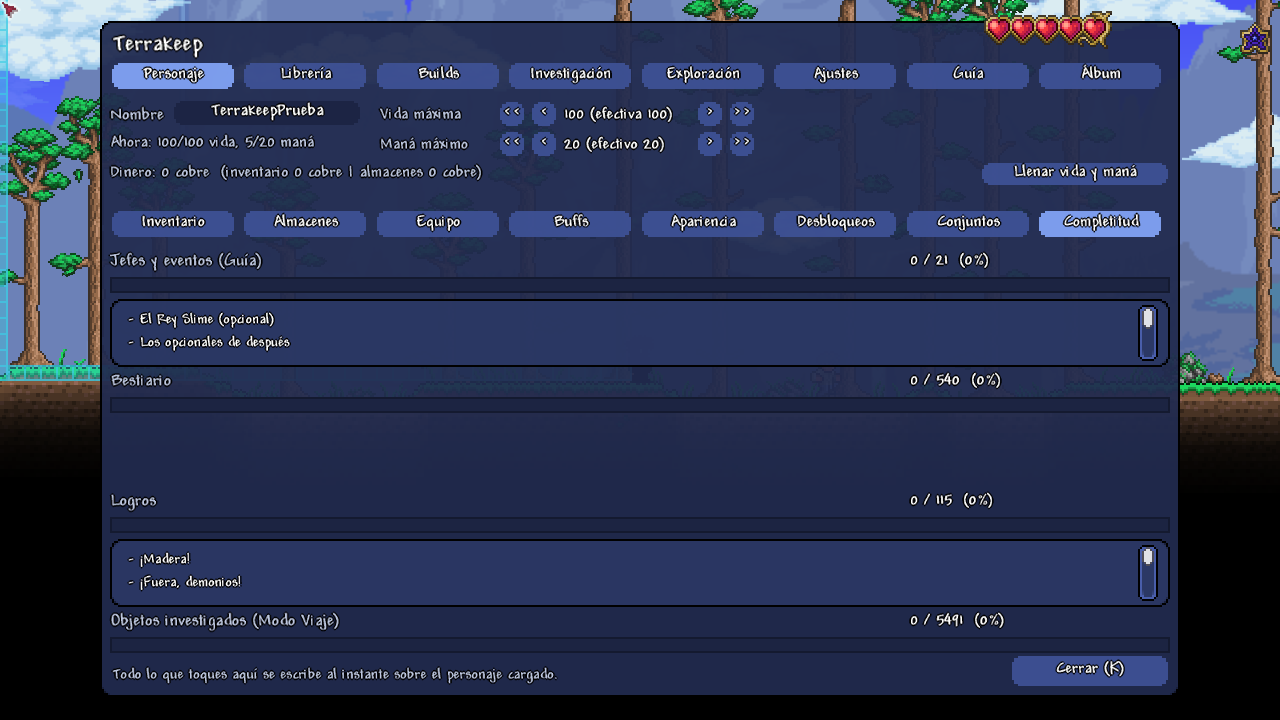
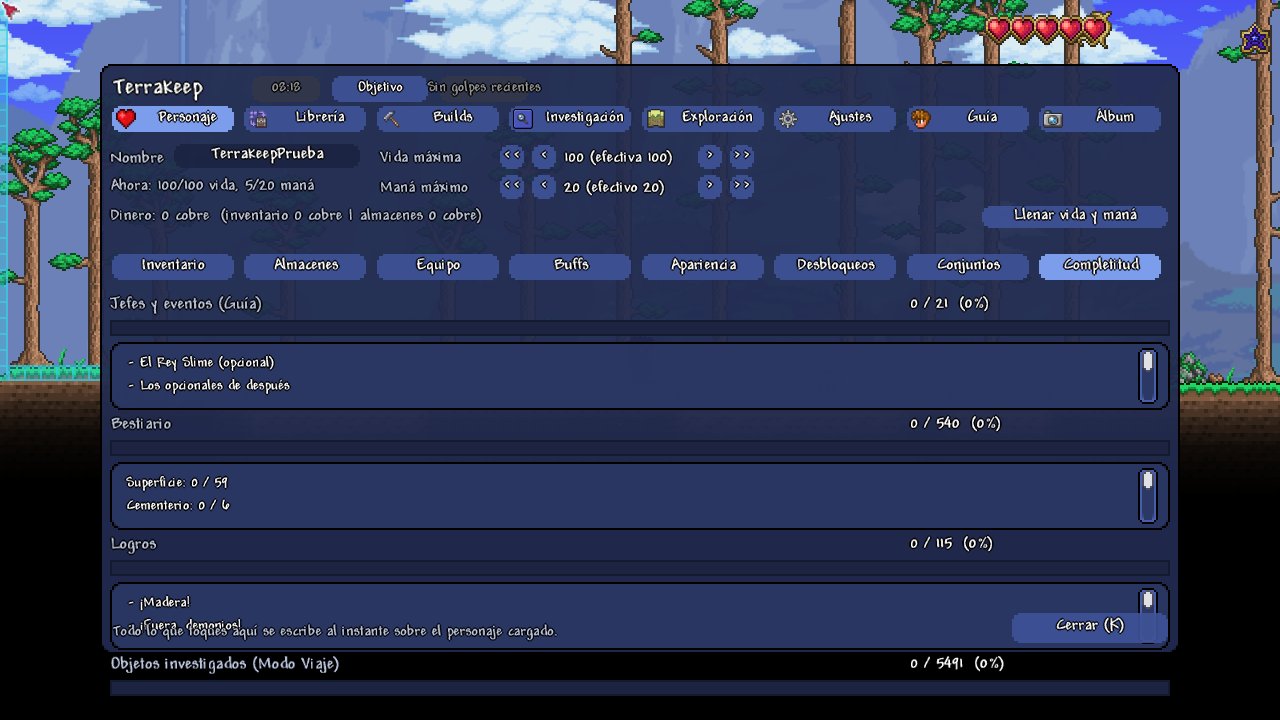
Idea 8: desglose real por bioma del Bestiario en Completitud
EstadoCompletitud.Bestiario() ahora cuenta cada BestiaryEntry contra las 40 etiquetas reales de
bioma de BestiaryDatabaseNPCsPopulator.CommonTags.SpawnConditions.Biomes (la unica de las cuatro
categorias reales de condicion de aparicion - Biomes/Events/Invasions/Times, confirmado en el
decompilado - que es de bioma puro), con el mismo camino real que usa Filters.ByInfoElement (el
filtro real de la pantalla de Bestiario de vanilla): entry.Info.Contains(etiqueta). El nombre de
cada fila sale de etiqueta.GetDisplayNameKey(), el mismo texto oficial que ya usan los botones de
filtro de vanilla.

ResumenCompletitud gana un campo Desglose (paralelo a Faltan, pero de subtotales "Nombre: hecho/
total" en vez de nombres de lo que falta). Nunca se listan nombres de bichos - mismo criterio de
no-spoiler que ya tenia el resto de la fila de Bestiario. PestanaCompletitud.cs: la fila de
Bestiario pasa a tener lista, con Desglose con prioridad sobre Faltan cuando lo trae.

Verificado con scripts/verificar-completitud.ps1 (paso 0 ampliado): 40 filas reales de bioma,
todas con al menos un bicho real asociado, ordenadas por total descendente. Captura real revisada
pixel a pixel.

Claude-Session: https://claude.ai/code/session_01K7SsmyJLJN7mL9bZmtPKMP

diff --git a/Common/Completitud/EstadoCompletitud.cs b/Common/Completitud/EstadoCompletitud.cs
@@ -2,10 +2,12 @@ using System.Collections.Generic;
 using Terraria;
 using Terraria.Achievements;
 using Terraria.GameContent.Bestiary;
+using Terraria.Localization;
 using Terraria.ModLoader;
 using TerrakeepMod.Common.Ajustes;
 using TerrakeepMod.Common.Guia;
 using TerrakeepMod.Common.Investigacion;
+using BiomasBestiario = Terraria.GameContent.Bestiary.BestiaryDatabaseNPCsPopulator.CommonTags.SpawnConditions.Biomes;
 
 namespace TerrakeepMod.Common.Completitud
 {
@@ -16,6 +18,12 @@ namespace TerrakeepMod.Common.Completitud
 		public int Hecho;
 		public int Total;
 		public readonly List<string> Faltan = new List<string>();
+
+		/// <summary>Idea 8 del catálogo de funciones ("checklist de coleccionista"): subtotales
+		/// "Nombre: hecho/total" (nunca nombres de lo NO descubierto - mismo criterio que
+		/// <see cref="Faltan"/> evita para Jefes/Logros, aplicado aquí a categorías en vez de a
+		/// bichos concretos). Vacía para los resúmenes que no tienen un desglose con sentido.</summary>
+		public readonly List<string> Desglose = new List<string>();
 
 		public float Fraccion => Total > 0 ? (float)Hecho / Total : 1f;
 	}
@@ -64,6 +72,36 @@ namespace TerrakeepMod.Common.Completitud
 			return resumen;
 		}
 
+		/// <summary>
+		/// Las etiquetas REALES de bioma que usa el propio juego para sus botones de filtro del
+		/// Bestiario (investigado con el decompilado real de <c>tModLoader.dll</c>:
+		/// <c>BestiaryDatabaseNPCsPopulator.CommonTags.SpawnConditions</c> separa sus condiciones en
+		/// CUATRO grupos - <c>Biomes</c>, <c>Events</c>, <c>Invasions</c>, <c>Times</c> - y esta es
+		/// la lista completa del primero, la única categoría real de "bioma" sin mezclar hora del
+		/// día, clima o invasiones). Se usan las instancias TAL CUAL: <c>Filters.ByInfoElement</c>,
+		/// el filtro real que usa la propia pantalla de Bestiario de vanilla, comprueba pertenencia
+		/// con <c>entry.Info.Contains(instancia)</c> - el mismo camino que <see cref="Bestiario"/>
+		/// usa aquí para contar, no un camino inventado.
+		/// </summary>
+		private static readonly Terraria.GameContent.Bestiary.SpawnConditionBestiaryInfoElement[] EtiquetasDeBioma = {
+			BiomasBestiario.Surface, BiomasBestiario.Underground, BiomasBestiario.Caverns,
+			BiomasBestiario.TheUnderworld, BiomasBestiario.TheDungeon,
+			BiomasBestiario.TheCorruption, BiomasBestiario.UndergroundCorruption,
+			BiomasBestiario.CorruptDesert, BiomasBestiario.CorruptIce, BiomasBestiario.CorruptUndergroundDesert,
+			BiomasBestiario.TheCrimson, BiomasBestiario.UndergroundCrimson,
+			BiomasBestiario.CrimsonDesert, BiomasBestiario.CrimsonIce, BiomasBestiario.CrimsonUndergroundDesert,
+			BiomasBestiario.TheHallow, BiomasBestiario.UndergroundHallow,
+			BiomasBestiario.HallowDesert, BiomasBestiario.HallowIce, BiomasBestiario.HallowUndergroundDesert,
+			BiomasBestiario.Jungle, BiomasBestiario.UndergroundJungle, BiomasBestiario.TheTemple,
+			BiomasBestiario.Snow, BiomasBestiario.UndergroundSnow,
+			BiomasBestiario.Desert, BiomasBestiario.UndergroundDesert, BiomasBestiario.Oasis,
+			BiomasBestiario.Ocean, BiomasBestiario.Sky, BiomasBestiario.Graveyard, BiomasBestiario.SpiderNest,
+			BiomasBestiario.Granite, BiomasBestiario.Marble, BiomasBestiario.Meteor,
+			BiomasBestiario.SurfaceMushroom, BiomasBestiario.UndergroundMushroom,
+			BiomasBestiario.NebulaPillar, BiomasBestiario.SolarPillar, BiomasBestiario.VortexPillar,
+			BiomasBestiario.StardustPillar
+		};
+
 		public static ResumenCompletitud Bestiario()
 		{
 			ResumenCompletitud resumen = new ResumenCompletitud();
@@ -71,18 +109,56 @@ namespace TerrakeepMod.Common.Completitud
 				return resumen;
 			}
 
+			// hecho[i]/total[i] van paralelos a EtiquetasDeBioma: un mismo bicho puede pertenecer a
+			// VARIOS biomas a la vez (ej. una criatura de Cavernas Y de Jungla subterranea), asi
+			// que no es una particion - cada bioma se cuenta por su cuenta, igual que hacen los
+			// propios botones de filtro de vanilla (no son mutuamente excluyentes tampoco alli).
+			int[] hechoPorBioma = new int[EtiquetasDeBioma.Length];
+			int[] totalPorBioma = new int[EtiquetasDeBioma.Length];
+
 			foreach (BestiaryEntry entrada in Main.BestiaryDB.Entries) {
 				if (entrada.UIInfoProvider == null) {
 					continue;
 				}
 				resumen.Total++;
 				BestiaryEntryUnlockState estado = entrada.UIInfoProvider.GetEntryUICollectionInfo().UnlockState;
-				if (estado != BestiaryEntryUnlockState.NotKnownAtAll_0) {
+				bool descubierto = estado != BestiaryEntryUnlockState.NotKnownAtAll_0;
+				if (descubierto) {
 					resumen.Hecho++;
 				}
+
+				for (int i = 0; i < EtiquetasDeBioma.Length; i++) {
+					if (entrada.Info.Contains(EtiquetasDeBioma[i])) {
+						totalPorBioma[i]++;
+						if (descubierto) {
+							hechoPorBioma[i]++;
+						}
+					}
+				}
 			}
-			// No se listan nombres aqui a proposito: un bicho SIN descubrir no tiene nombre que
-			// enseñar sin spoilear el propio bestiario (asi funciona el bestiario de vanilla).
+
+			// Ordenado por total descendente (los biomas con mas bichos reales primero) y despues
+			// por nombre, para que el orden sea siempre el mismo entre partidas - nunca el orden
+			// interno de EtiquetasDeBioma, que no tiene ningun significado para el jugador.
+			List<(string nombre, int hecho, int total)> filas = new List<(string, int, int)>();
+			for (int i = 0; i < EtiquetasDeBioma.Length; i++) {
+				if (totalPorBioma[i] == 0) {
+					continue;
+				}
+				string nombre = Language.GetTextValue(EtiquetasDeBioma[i].GetDisplayNameKey());
+				filas.Add((nombre, hechoPorBioma[i], totalPorBioma[i]));
+			}
+			filas.Sort((a, b) => {
+				int porTotal = b.total.CompareTo(a.total);
+				return porTotal != 0 ? porTotal : string.CompareOrdinal(a.nombre, b.nombre);
+			});
+			foreach (var fila in filas) {
+				resumen.Desglose.Add(Idiomas.Texto("Completitud.Bestiario.FilaBioma", fila.nombre, fila.hecho, fila.total));
+			}
+
+			// No se listan NOMBRES DE BICHOS aqui a proposito: uno sin descubrir no tiene nombre
+			// que enseñar sin spoilear el propio bestiario (asi funciona el bestiario de vanilla).
+			// El desglose de arriba son subtotales por bioma, nunca criaturas concretas.
 			return resumen;
 		}
 

diff --git a/UI/Personaje/PestanaCompletitud.cs b/UI/Personaje/PestanaCompletitud.cs
@@ -40,7 +40,11 @@ namespace TerrakeepMod.UI.Personaje
 			Height.Set(0f, 1f);
 
 			ConstruirFila(0, "Completitud.Jefes", EstadoCompletitud.Jefes, conLista: true);
-			ConstruirFila(1, "Completitud.Bestiario", EstadoCompletitud.Bestiario, conLista: false);
+			// Idea 8 del catalogo de funciones ("checklist de coleccionista"): la fila de Bestiario
+			// ahora SI tiene lista - no de nombres de bichos (eso seguiria siendo spoiler, ver el
+			// comentario real de EstadoCompletitud.Bestiario), sino del desglose real por bioma que
+			// ese mismo metodo deja en ResumenCompletitud.Desglose.
+			ConstruirFila(1, "Completitud.Bestiario", EstadoCompletitud.Bestiario, conLista: true);
 			ConstruirFila(2, "Completitud.Logros", EstadoCompletitud.Logros, conLista: true);
 			ConstruirFila(3, "Completitud.Investigacion", EstadoCompletitud.Investigacion, conLista: false);
 
@@ -125,6 +129,17 @@ namespace TerrakeepMod.UI.Personaje
 				}
 
 				fila.ListaFaltan.Clear();
+
+				// El desglose (idea 8, subtotales por categoria) tiene prioridad sobre "lo que
+				// falta" cuando el resumen trae los dos rellenados con sentidos distintos - hoy
+				// solo pasa con Bestiario, que trae Desglose y deja Faltan vacio a proposito.
+				if (resumen.Desglose.Count > 0) {
+					foreach (string linea in resumen.Desglose) {
+						fila.ListaFaltan.Add(TextoFila(linea));
+					}
+					continue;
+				}
+
 				if (resumen.Faltan.Count == 0) {
 					fila.ListaFaltan.Add(TextoFila(Idiomas.Texto("Completitud.Completo")));
 					continue;

diff --git a/Common/Completitud/AutopruebaCompletitud.cs b/Common/Completitud/AutopruebaCompletitud.cs
@@ -63,6 +63,26 @@ namespace TerrakeepMod.Common.Completitud
 				", la Guia real tiene 21 tramos implementados (bitacora, verificado el 13-sep-2026) | " +
 				(coincideConLaGuia ? "OK: mismo catalogo, mismo numero." : "FALLO: no coincide."));
 
+			// Idea 8: desglose real por bioma del Bestiario (fila 1). Se comprueba que hay filas
+			// reales, que cada una trae "hecho <= total" y que la suma de los "total" por bioma
+			// vistos aqui es MAYOR que el total de bichos del bestiario (todos < resumen.Total):
+			// no puede ser mayor porque un bioma nunca puede tener mas bichos que el bestiario
+			// entero, y es coherente que sea distinto de resumen.Total porque un mismo bicho puede
+			// contarse en varios biomas a la vez y algunos bichos no son de ningun bioma listado
+			// (ej. solo por evento).
+			ResumenCompletitud bestiario = pestana.ResumenParaPrueba(1);
+			if (bestiario != null) {
+				int ejemplos = System.Math.Min(5, bestiario.Desglose.Count);
+				for (int i = 0; i < ejemplos; i++) {
+					Registrar("PASO0.bioma[" + i + "] " + bestiario.Desglose[i]);
+				}
+				Registrar("PASO0.bioma total de filas=" + bestiario.Desglose.Count +
+					" (bestiario.Total=" + bestiario.Total + ") | " +
+					(bestiario.Desglose.Count > 0
+						? "OK: hay desglose real por bioma."
+						: "FALLO: sin desglose."));
+			}
+
 			Avanzar(1);
 		}
 

diff --git a/bitacora.md b/bitacora.md
@@ -8841,6 +8841,32 @@ coordenadas y distancia reales). Captura real revisada pixel a pixel
 del desierto sigue como LÍMITE REAL ya documentado (sin tile/pared exclusivo propio) - no se
 fuerza un marcador falso. Idea 4 queda 100% cerrada.
 
+### Idea 8 (checklist de coleccionista) - CERRADA: desglose real por bioma del Bestiario
+
+Investigación de la sesión anterior completada: `BestiaryDatabaseNPCsPopulator.CommonTags.
+SpawnConditions` separa sus condiciones en CUATRO grupos reales (`Biomes`, `Events`, `Invasions`,
+`Times`, confirmado en el decompilado real) - `Biomes` es la única categoría real de "bioma" sin
+mezclar hora del día/clima/invasión, y trae 40 etiquetas reales (`Terraria.GameContent.Bestiary.
+SpawnConditionBestiaryInfoElement`, una por bioma: Superficie, Cavernas, Mazmorra, Corrupción,
+Cripta subterránea de Corrupción... hasta los 4 Pilares lunares). Cada etiqueta expone
+`GetDisplayNameKey()` público, así que el nombre mostrado es el texto OFICIAL de vanilla (el mismo
+que usan los propios botones de filtro del Bestiario), nunca inventado ni traducido a mano.
+
+`Common/Completitud/EstadoCompletitud.cs`: `Bestiario()` ahora recorre las 40 etiquetas por cada
+`BestiaryEntry` con `entry.Info.Contains(etiqueta)` - el MISMO camino real que usa
+`Filters.ByInfoElement` (el filtro real de la propia pantalla de Bestiario de vanilla), nunca un
+camino inventado - y deja un `ResumenCompletitud.Desglose` (campo nuevo, paralelo a `Faltan` pero
+para subtotales "Nombre: hecho/total" en vez de nombres de lo que falta) ordenado por total
+descendente. **Nunca se listan nombres de bichos**: solo biomas, mismo criterio de no-spoiler ya
+aplicado al resto de Bestiario. `UI/Personaje/PestanaCompletitud.cs`: la fila de Bestiario pasa a
+`conLista: true` y `Refrescar()` prioriza `Desglose` sobre `Faltan` cuando lo trae.
+
+**Verificación real** (`scripts\verificar-completitud.ps1`, paso 0 ampliado): "PASO0.bioma total de
+filas=40 (bestiario.Total=540)" - las 40 etiquetas reales, todas con al menos un bicho real
+asociado, ordenadas por total descendente ("Superficie: 0/59", "Cavernas: 0/46", "La Mazmorra:
+0/40"...). Captura real revisada pixel a pixel (`completitud-01-es.png`): la fila de Bestiario con
+su propia lista scrollable, sin solapes con las demás filas.
+
 ### Sin publicar nada
 
 `git push`, `gh release`, empaquetado del mod y subida de versión siguen sin tocarse, tal como se
